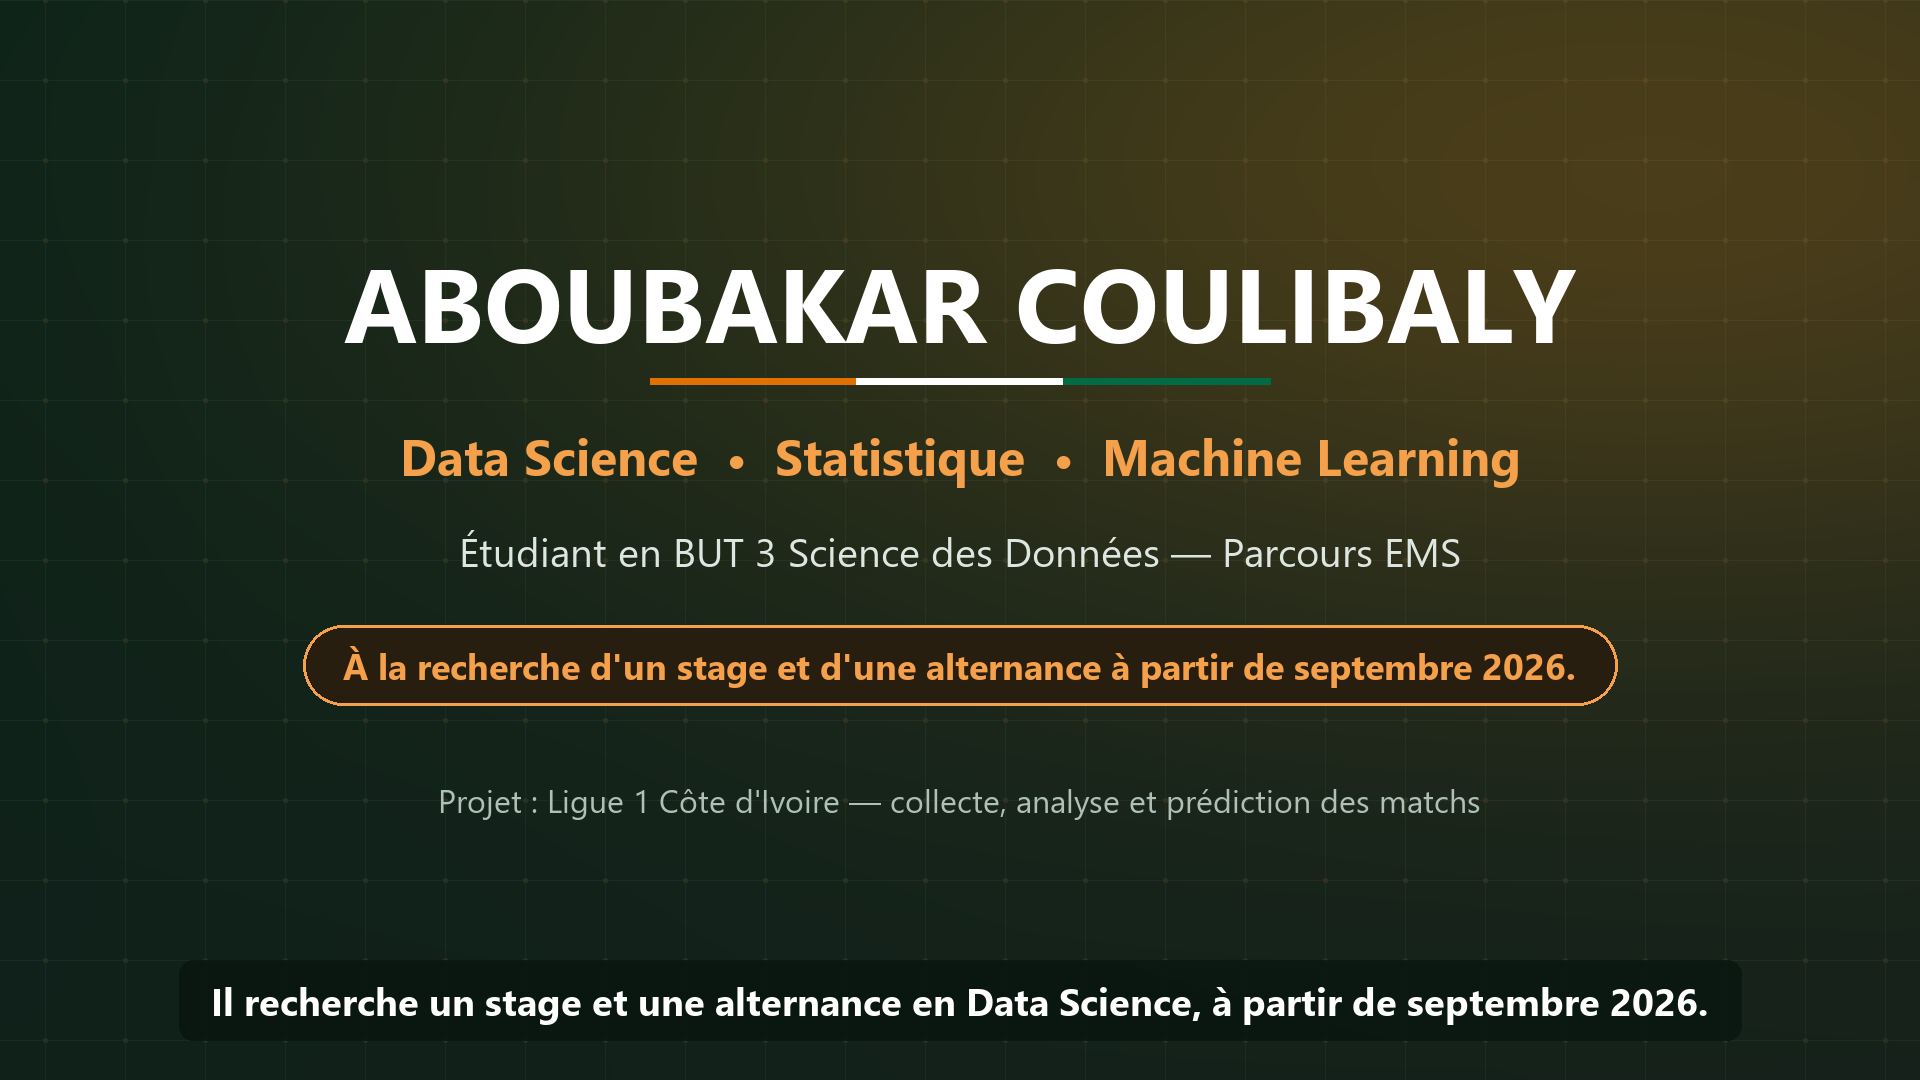
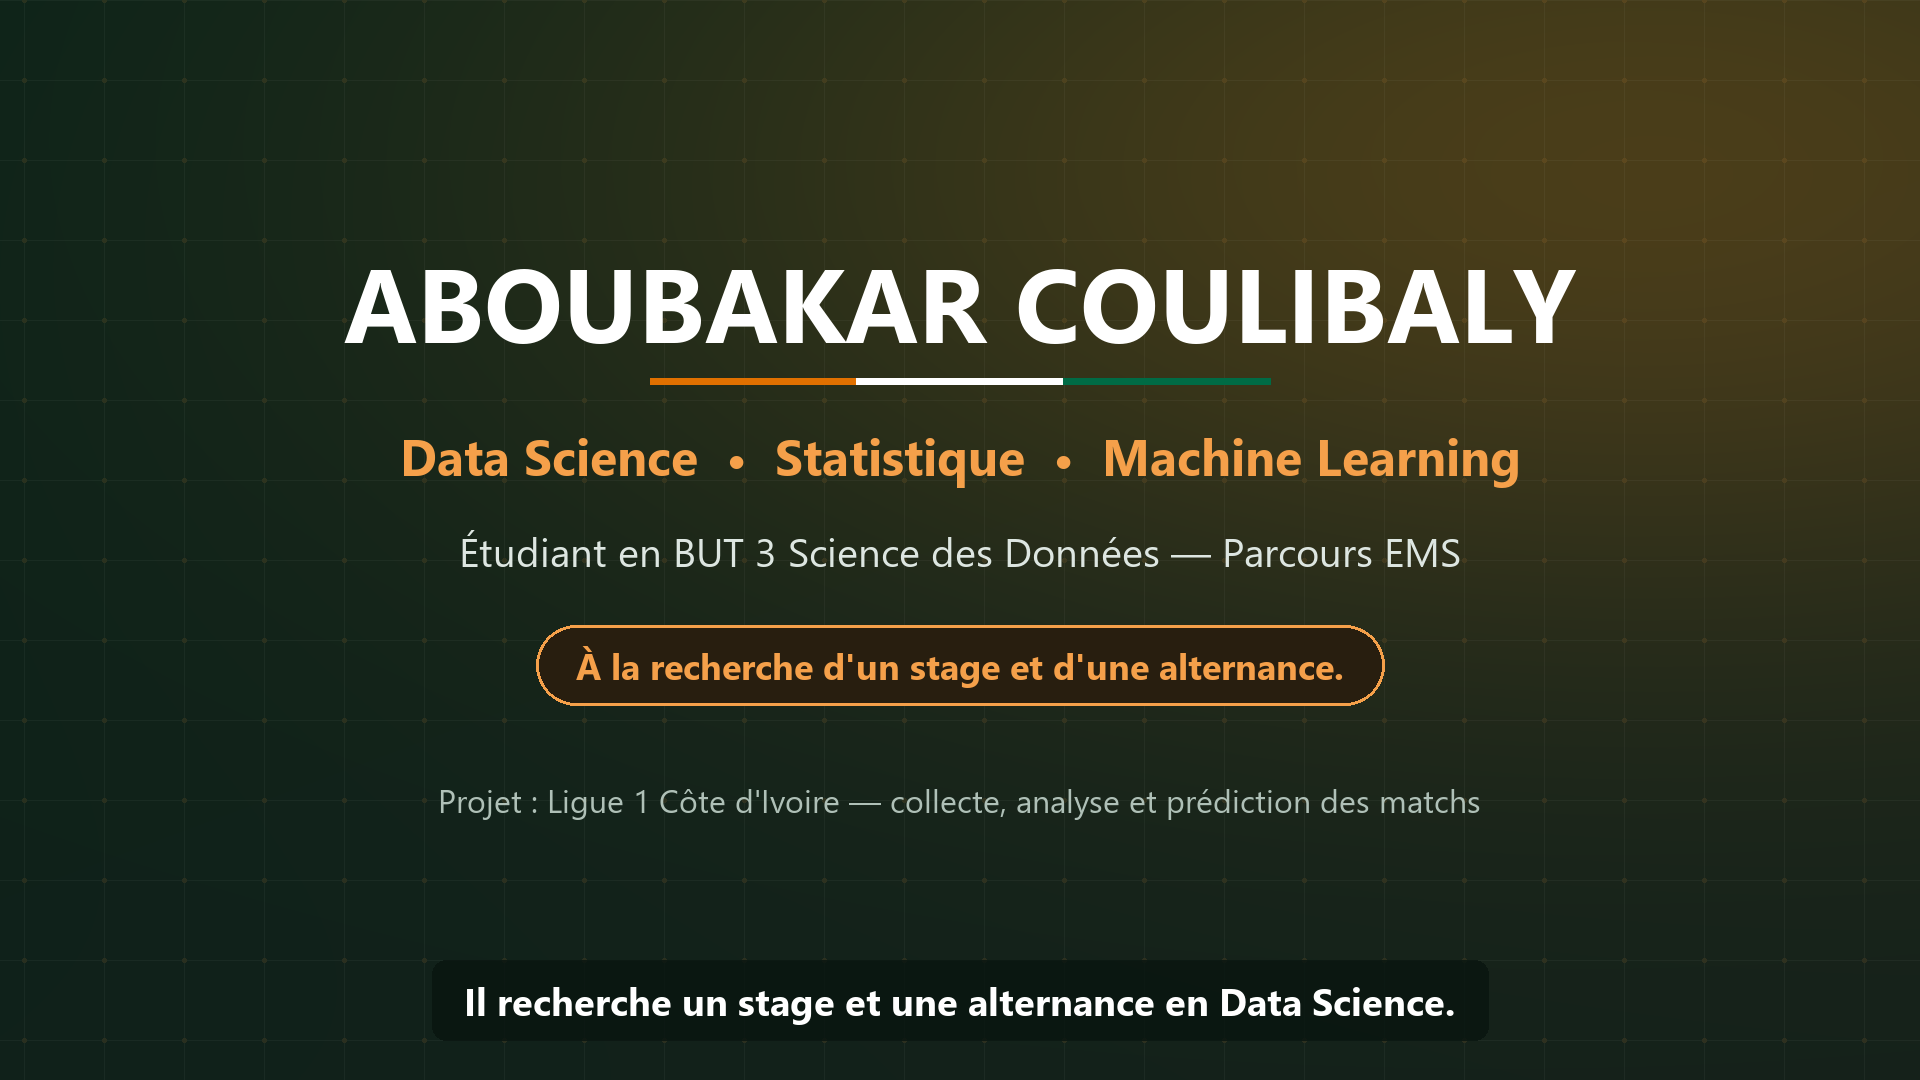
Retire la date « septembre 2026 » de la recherche de stage et d'alternance

Changed region(s): [[0.1562, 0.5806, 0.8438, 0.6722], [0.0938, 0.9167, 0.9062, 0.9472]]

diff --git a/src/restitution/video_pro.py b/src/restitution/video_pro.py
@@ -67,7 +67,7 @@ Y_SOUS_TITRES = 935  # tout le contenu des séquences reste au-dessus de cette l
 NOM = "ABOUBAKAR COULIBALY"
 DOMAINES = "Data Science  •  Statistique  •  Machine Learning"
 DOMAINES_FIN = "Data Science | Data Analysis | Modélisation statistique"
-RECHERCHE = "À la recherche d'un stage et d'une alternance à partir de septembre 2026"
+RECHERCHE = "À la recherche d'un stage et d'une alternance"
 
 
 # ------------------------------------------------------------------ narration
@@ -83,10 +83,7 @@ NARRATION = {
          "Exploration et Modélisation Statistique.",
          "Aboubakar Coulibaly, étudiant en B U T 3 Science des Données, parcours "
          "Exploration et Modélisation Statistique."),
-        P("Il recherche un stage et une alternance en Data Science, à partir de "
-         "septembre 2026.",
-         "Il recherche un stage et une alternance en Data Science, à partir de "
-         "septembre deux mille vingt-six."),
+        P("Il recherche un stage et une alternance en Data Science.", None),
     ],
     "02_contexte": [
         P("La Ligue 1 ivoirienne forme des joueurs pour l'Afrique et l'Europe.", None),
@@ -139,10 +136,7 @@ NARRATION = {
     ],
     "06_conclusion": [
         P("De la collecte web au Machine Learning : un projet complet.", None),
-        P("Aboubakar Coulibaly recherche un stage et une alternance à partir de "
-         "septembre 2026.",
-         "Aboubakar Coulibaly recherche un stage et une alternance à partir de "
-         "septembre deux mille vingt-six."),
+        P("Aboubakar Coulibaly recherche un stage et une alternance.", None),
     ],
 }
 DEBUT_VOIX, PAUSE, FIN_MIN = 0.6, 0.25, 0.9  # secondes
@@ -687,7 +681,7 @@ def seq_conclusion(t, duree, reperes, **_):
     h = progression(t, reperes[1] + 0.6)
     if h > 0:
         fr = police(True, 40)
-        msg = "Recherche de stage et d'alternance — Septembre 2026"
+        msg = "Recherche de stage et d'alternance"
         w = d.textlength(msg, font=fr) + 90
         carte_bloc(img, ((L - w) / 2, 605, (L + w) / 2, 689), (224, 112, 0), (224, 112, 0), h,
                    rayon=42)

diff --git a/app/commun.py b/app/commun.py
@@ -13,7 +13,7 @@ FIGURES = Path(__file__).parent.parent / "docs" / "figures"
 AUTEUR = "ABOUBAKAR COULIBALY"
 ROLE = "Data Science · Analyse de données · Modélisation statistique"
 FORMATION = "Étudiant en BUT 3 Science des Données — Parcours EMS"
-RECHERCHE = "À la recherche d'un stage et d'une alternance à partir de septembre 2026"
+RECHERCHE = "À la recherche d'un stage et d'une alternance"
 LIENS = {"GitHub": "https://github.com/coulibaly-abou",
          "LinkedIn": "https://linkedin.com/in/aboubakar-coulibaly-b028962bb"}
 TITRE_PROJET = "Ligue 1 Côte d'Ivoire — Data Science & Machine Learning"

diff --git a/docs/linkedin/script_video_pro.md b/docs/linkedin/script_video_pro.md
@@ -12,14 +12,14 @@ La durée de chaque séquence suit la longueur de sa narration.
 
 | # | À l'écran | Narration (sous-titres) |
 |---|---|---|
-| 1. Profil | Nom, « Data Science • Statistique • Machine Learning », BUT 3 SD parcours EMS, recherche de stage et d'alternance (septembre 2026) | « Aboubakar Coulibaly, étudiant en BUT 3 Science des Données, parcours Exploration et Modélisation Statistique. Il recherche un stage et une alternance en Data Science, à partir de septembre 2026. » |
+| 1. Profil | Nom, « Data Science • Statistique • Machine Learning », BUT 3 SD parcours EMS, recherche de stage et d'alternance | « Aboubakar Coulibaly, étudiant en BUT 3 Science des Données, parcours Exploration et Modélisation Statistique. Il recherche un stage et une alternance en Data Science. » |
 | 2. Contexte | Carte : les 17 villes et 31 clubs apparaissent ; « Un championnat formateur… aux données dispersées » | « La Ligue 1 ivoirienne forme des joueurs pour l'Afrique et l'Europe. Pourtant, ses données sont dispersées et presque jamais analysées. Ce projet rassemble dix saisons : 31 clubs, répartis dans 17 villes. » |
 | 3. Problématique et objectifs | La question de départ, puis l'objectif général et les 4 objectifs spécifiques | « Problématique : que révèlent les données publiques sur ce championnat ? Et peut-on prédire un match mieux qu'une règle naïve ? Quatre objectifs : constituer une base fiable, analyser les performances des clubs, étudier le réseau des mouvements de joueurs, et comparer six modèles de prédiction. » |
 | 4. Données et méthodes | Chaîne Sources → Collecte → MongoDB → ETL → PostgreSQL (volumes réels), puis les 6 familles de méthodes | « Quatre sources web sont collectées en Python et archivées dans MongoDB. Un ETL recoupe les scores et harmonise 102 noms en 31 clubs : 1 934 matchs dans PostgreSQL. Méthodes : requêtes SQL, analyse de réseau, et Machine Learning en validation temporelle. » |
 | 5a. Observations | Tuiles 30 % de nuls · 2,06 buts par match · 6/10 titres ASEC · 42 % des départs depuis l'ASEC (« constats observés, pas des liens de cause à effet »), puis la page Championnat du site | « Premiers constats : 30 % de matchs nuls, à peine 2 buts par match, et 6 titres sur 10 pour l'ASEC Mimosas. » |
 | 5b. Modélisation | Barres : part de bons pronostics des 6 modèles (axe à partir de 0) ; encadré « Établi / Non établi » | « Chaque saison est prédite avec les seules saisons précédentes : 1 141 matchs. Un simple modèle Elo atteint 43,7 % de bons pronostics, contre 35,4 % pour la référence naïve. Le gain est significatif, mais les modèles restent trop proches pour être départagés. » |
 | 5c. Prédiction | Page Prédiction du site + carte ASEC Mimosas – AFAD Djékanou (42 / 31 / 27 %) | « L'application Streamlit donne ensuite les probabilités de chaque match à venir. » |
-| 6. Conclusion | Collecte → Bases → Analyse → Modélisation → Application, compétences, nom, « Recherche de stage et d'alternance — Septembre 2026 », liens GitHub et LinkedIn | « De la collecte web au Machine Learning : un projet complet. Aboubakar Coulibaly recherche un stage et une alternance à partir de septembre 2026. » |
+| 6. Conclusion | Collecte → Bases → Analyse → Modélisation → Application, compétences, nom, « Recherche de stage et d'alternance », liens GitHub et LinkedIn | « De la collecte web au Machine Learning : un projet complet. Aboubakar Coulibaly recherche un stage et une alternance. » |
 
 ## Ce que la vidéo affirme, et ce qu'elle n'affirme pas
 

diff --git a/docs/linkedin/post.md b/docs/linkedin/post.md
@@ -46,7 +46,7 @@ Avec peu de données, la rigueur de l'évaluation compte plus que la complexité
 🔗 Code et documentation : https://github.com/coulibaly-abou/ligue1-ci-data
 👤 Mes autres projets : https://github.com/coulibaly-abou
 
-🎓 Étudiant en BUT 3 Science des Données (parcours Exploration et Modélisation Statistique), je recherche un stage et une alternance en Data Science, Data Analysis ou Statistique à partir de septembre 2026. Échangeons !
+🎓 Étudiant en BUT 3 Science des Données (parcours Exploration et Modélisation Statistique), je recherche un stage et une alternance en Data Science, Data Analysis ou Statistique. Échangeons !
 
 #DataScience #DataAnalysis #MachineLearning #Statistique #Python #SQL #PyTorch #Streamlit #Football #CôteDIvoire #Alternance #Stage
 
